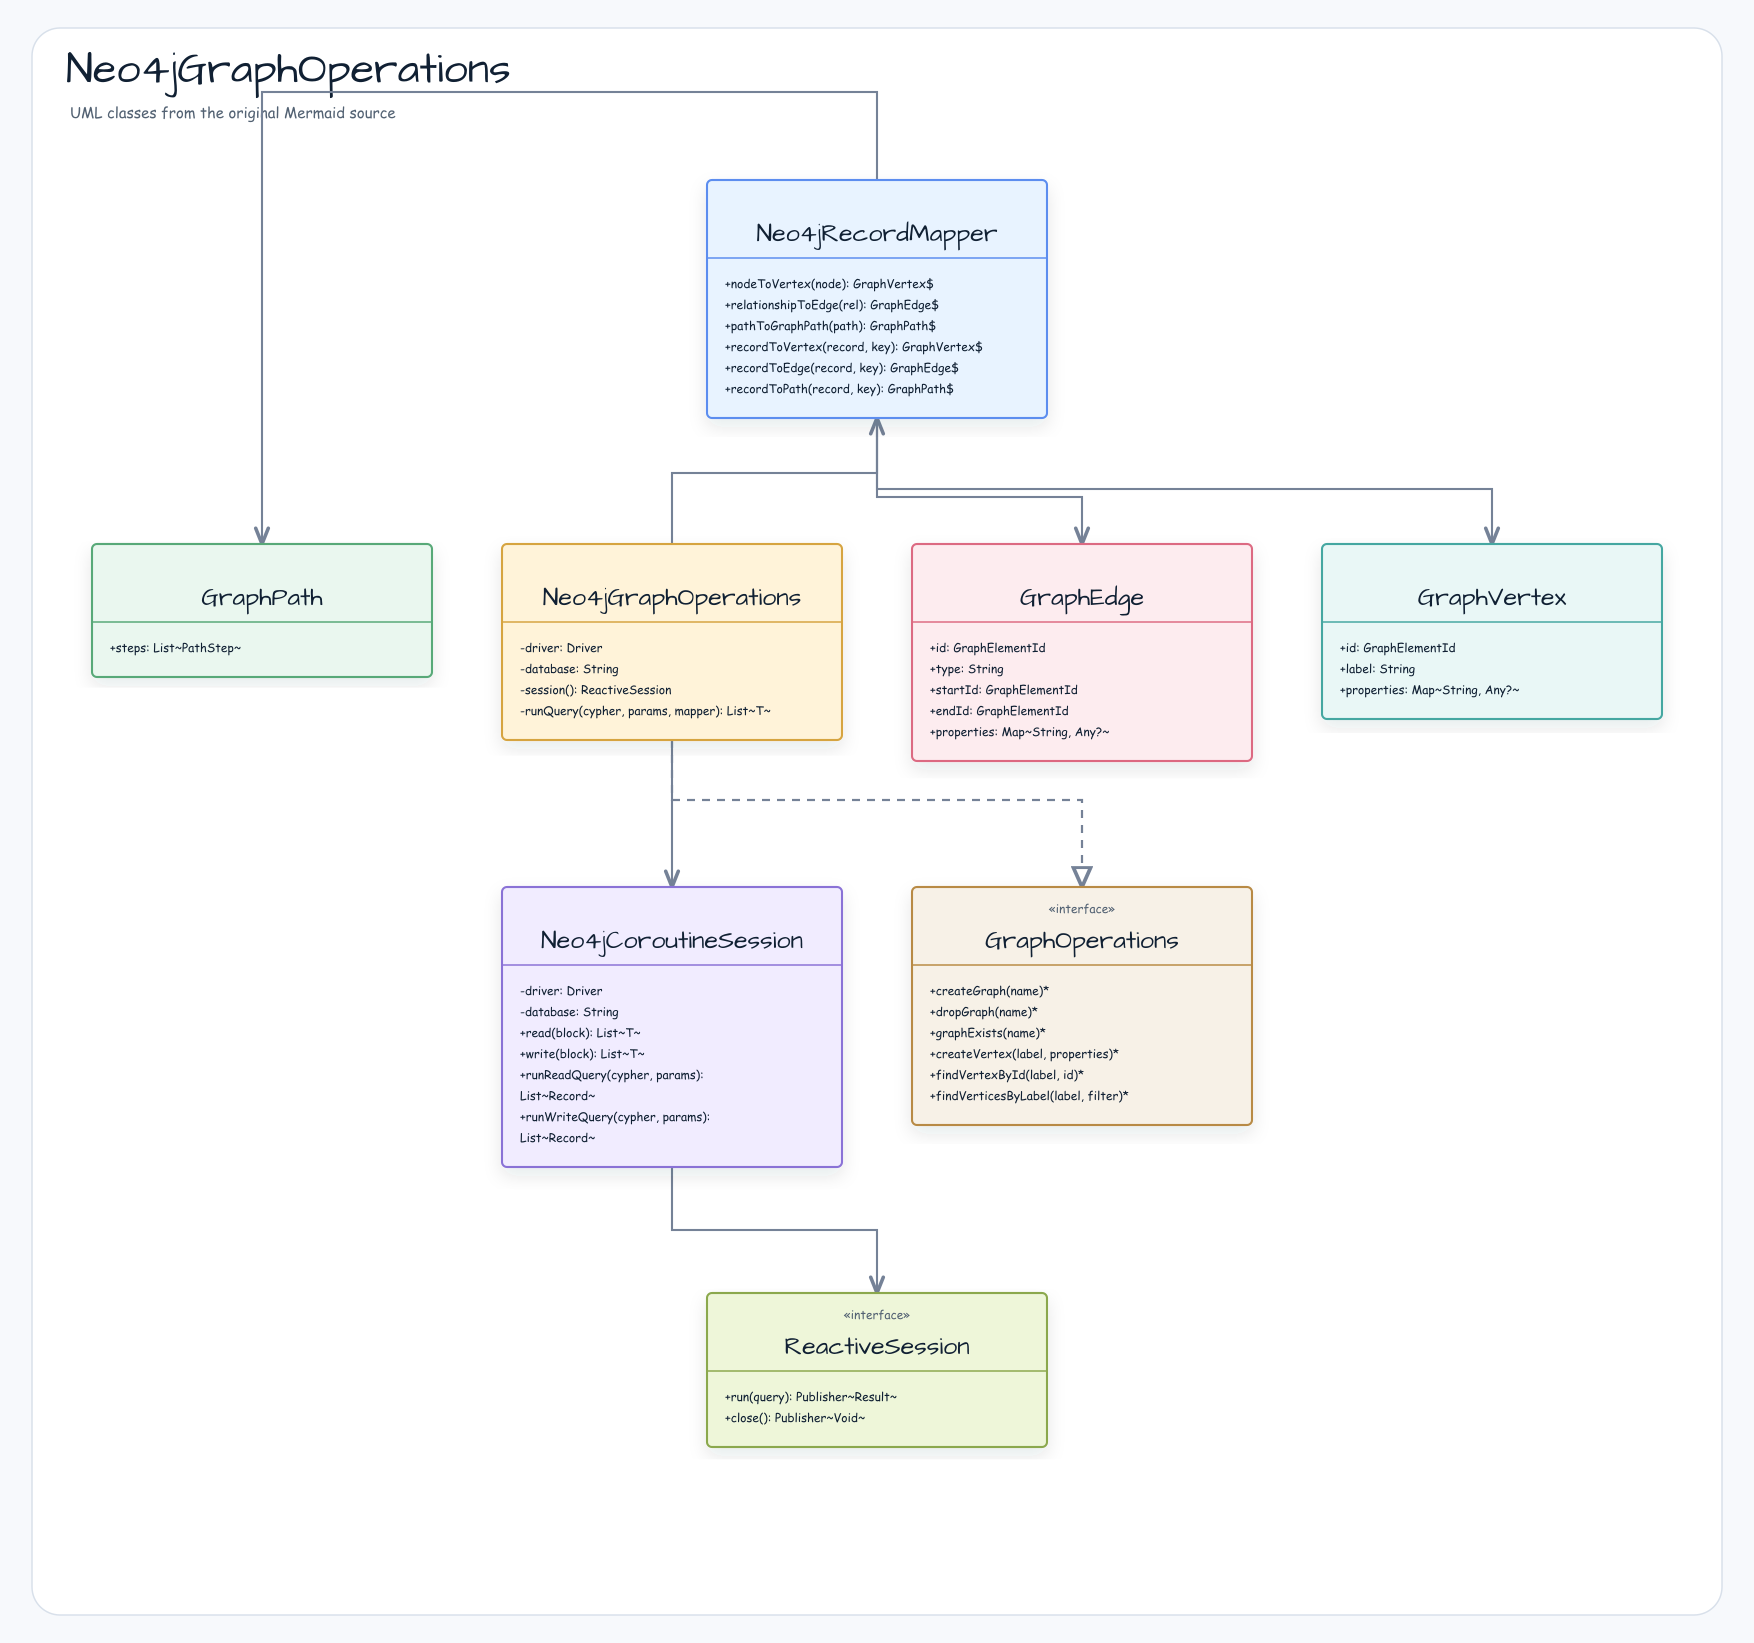
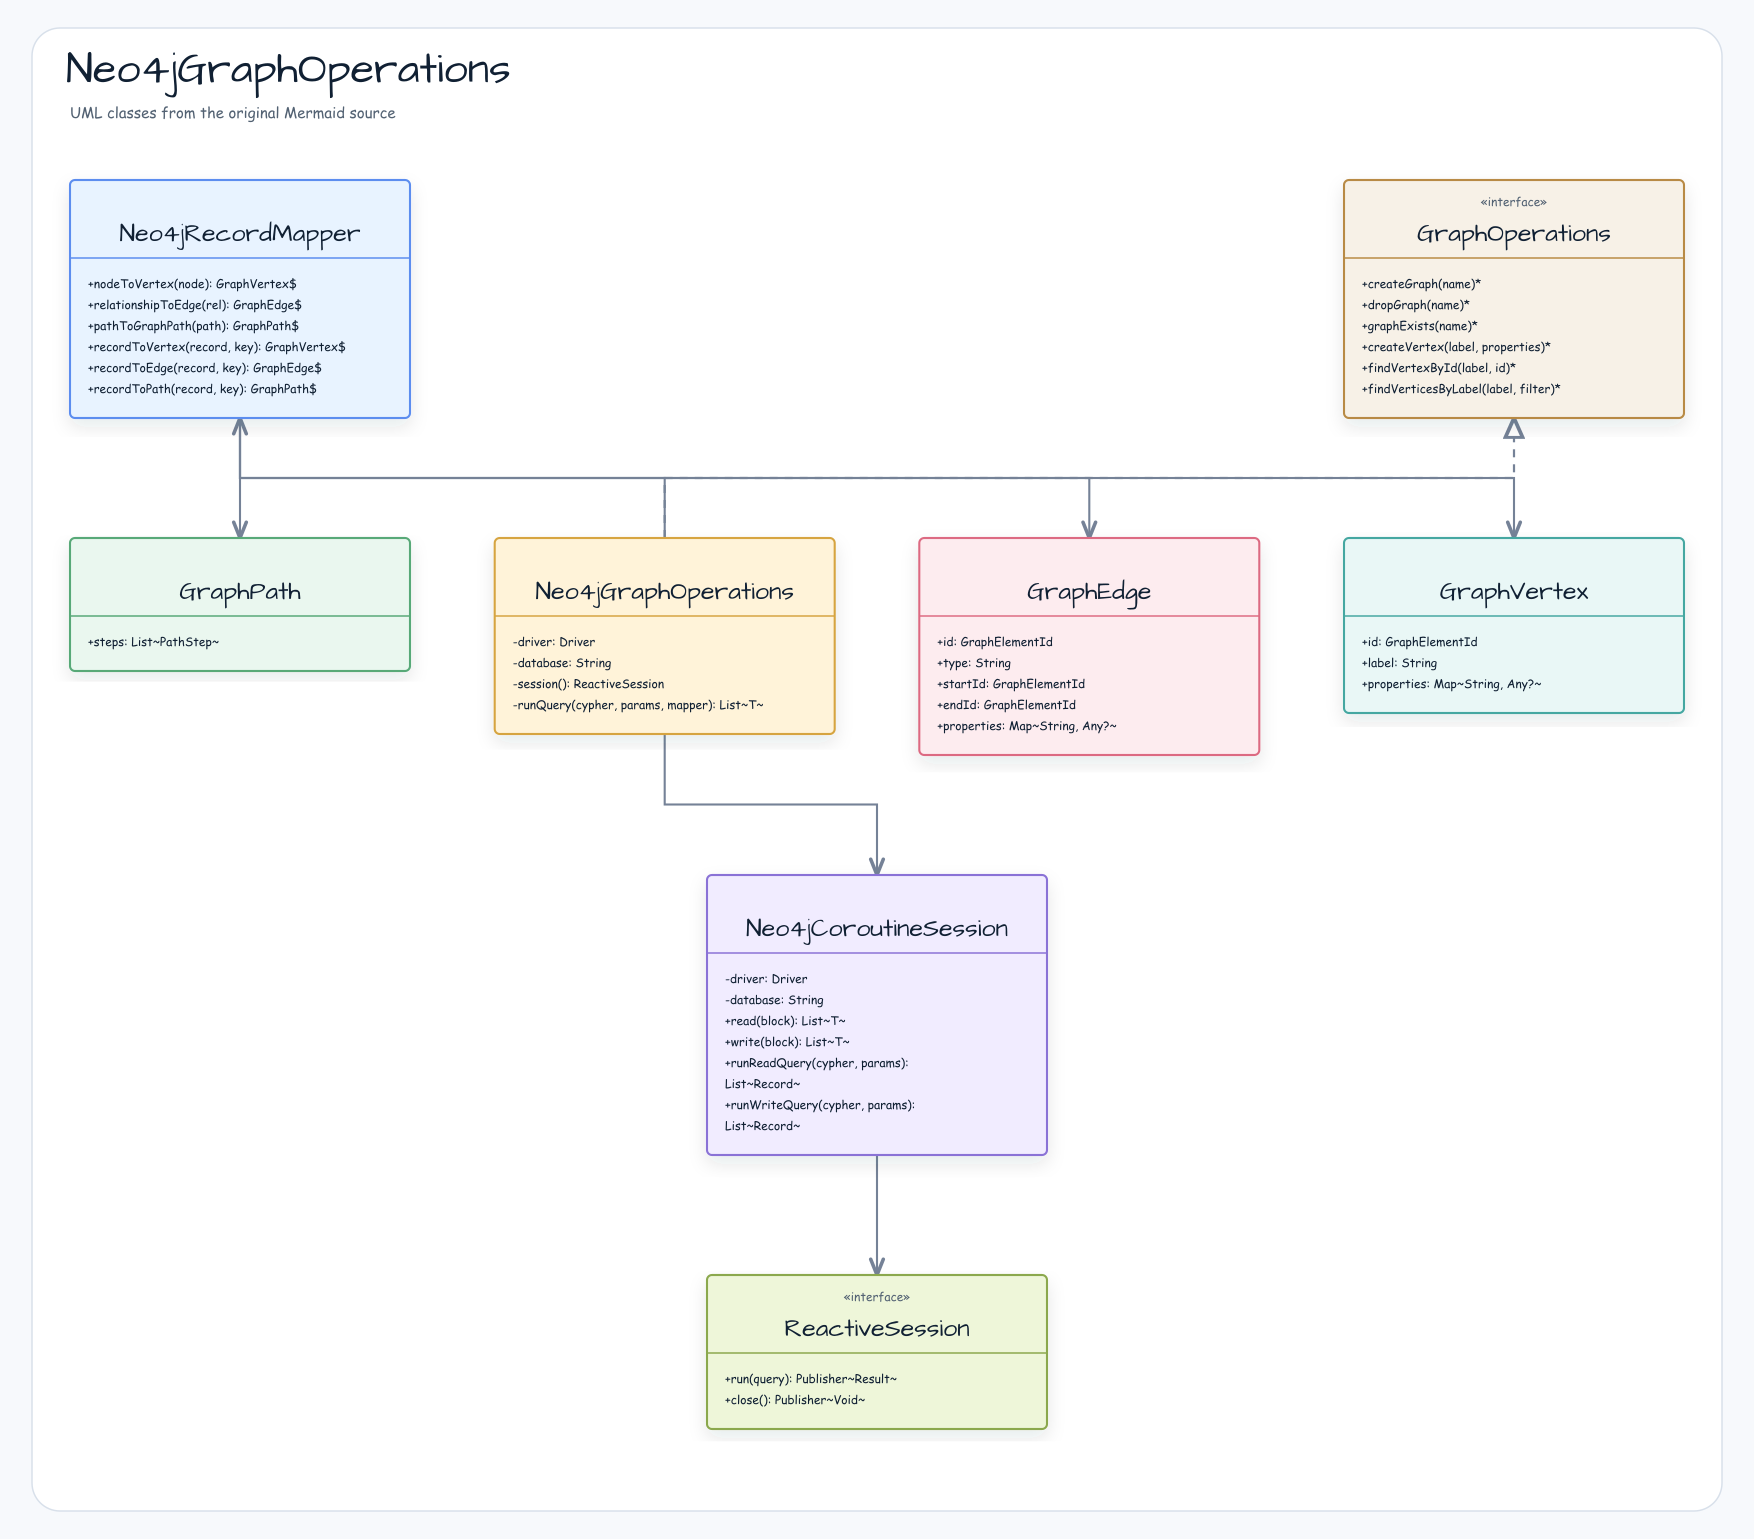
docs: orient class diagram hierarchies top-down
Re-layout README class diagram assets so inheritance and implementation arrows point upward to parent contracts, making interface and abstract types read above concrete implementations.

Constraint: README class diagram hierarchy must put parent contracts above child implementations across affected repos.
Rejected: Only fix the originally noticed image diagram | the same reversed hierarchy appeared across graph, leader, and workshop diagrams.
Confidence: high
Scope-risk: narrow
Directive: Run the class SVG inheritance-direction scan before refreshing README class diagrams.
Tested: xmllint --noout on changed SVG files; rsvg-convert regenerated PNGs; workspace class SVG direction/viewBox scan returned zero issues; README image link scan returned zero missing links; visual PNG spot checks.
Not-tested: Full Gradle test suite; documentation image-only change.

diff --git a/docs/lessons/2026-05-21-class-diagram-hierarchy.md b/docs/lessons/2026-05-21-class-diagram-hierarchy.md
@@ -1,0 +1,23 @@
+# Class Diagram Hierarchy Audit
+
+## Context
+
+README class diagrams can become misleading when Mermaid-to-SVG conversion preserves a layout where inheritance or implementation arrows point downward to parent contracts.
+
+## Decision
+
+Keep interface, abstract, and base contract nodes above their implementors or subclasses when an inheritance or implementation edge exists. Re-route those edges as orthogonal paths so the open-triangle marker lands on the parent node.
+
+## Outcome
+
+Graph README class diagram assets were re-laid out top-down and PNGs were regenerated from the corrected SVG sources.
+
+## Verification
+
+- Scanned all workspace class SVGs for downward `inheritLine` and `implLine` endpoints: `COUNT 0`.
+- Re-rendered changed PNG assets with `rsvg-convert`.
+- Validated changed SVG files with `xmllint --noout`.
+
+## Future Guidance
+
+Before publishing README class diagrams, run an inheritance-direction scan against `docs/images/readme-diagrams/*class*.svg` and visually inspect at least one rendered PNG from each changed diagram family.
